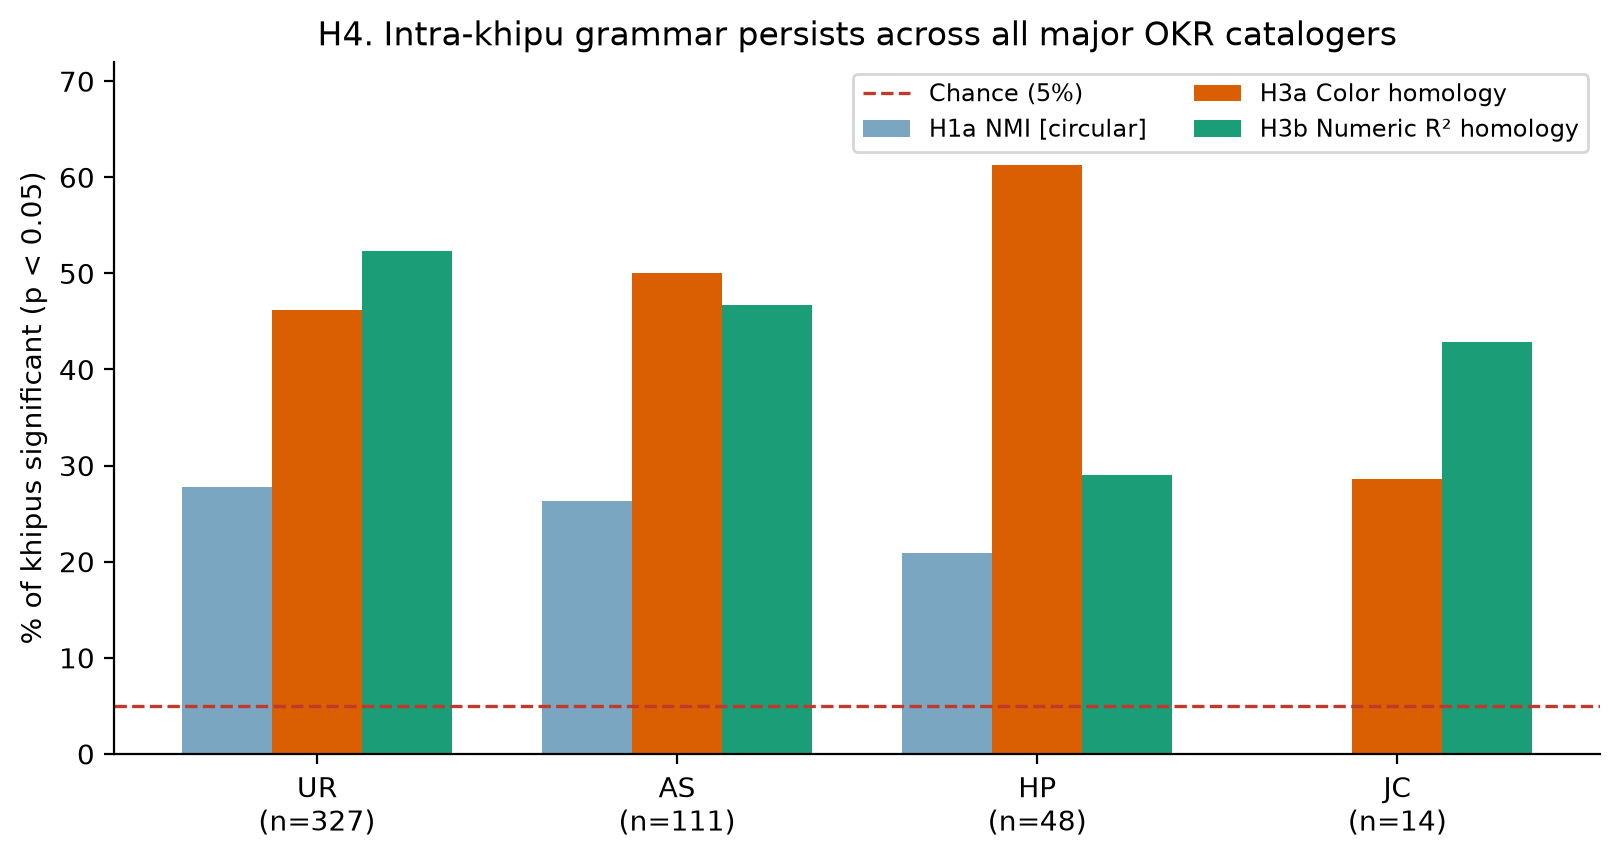
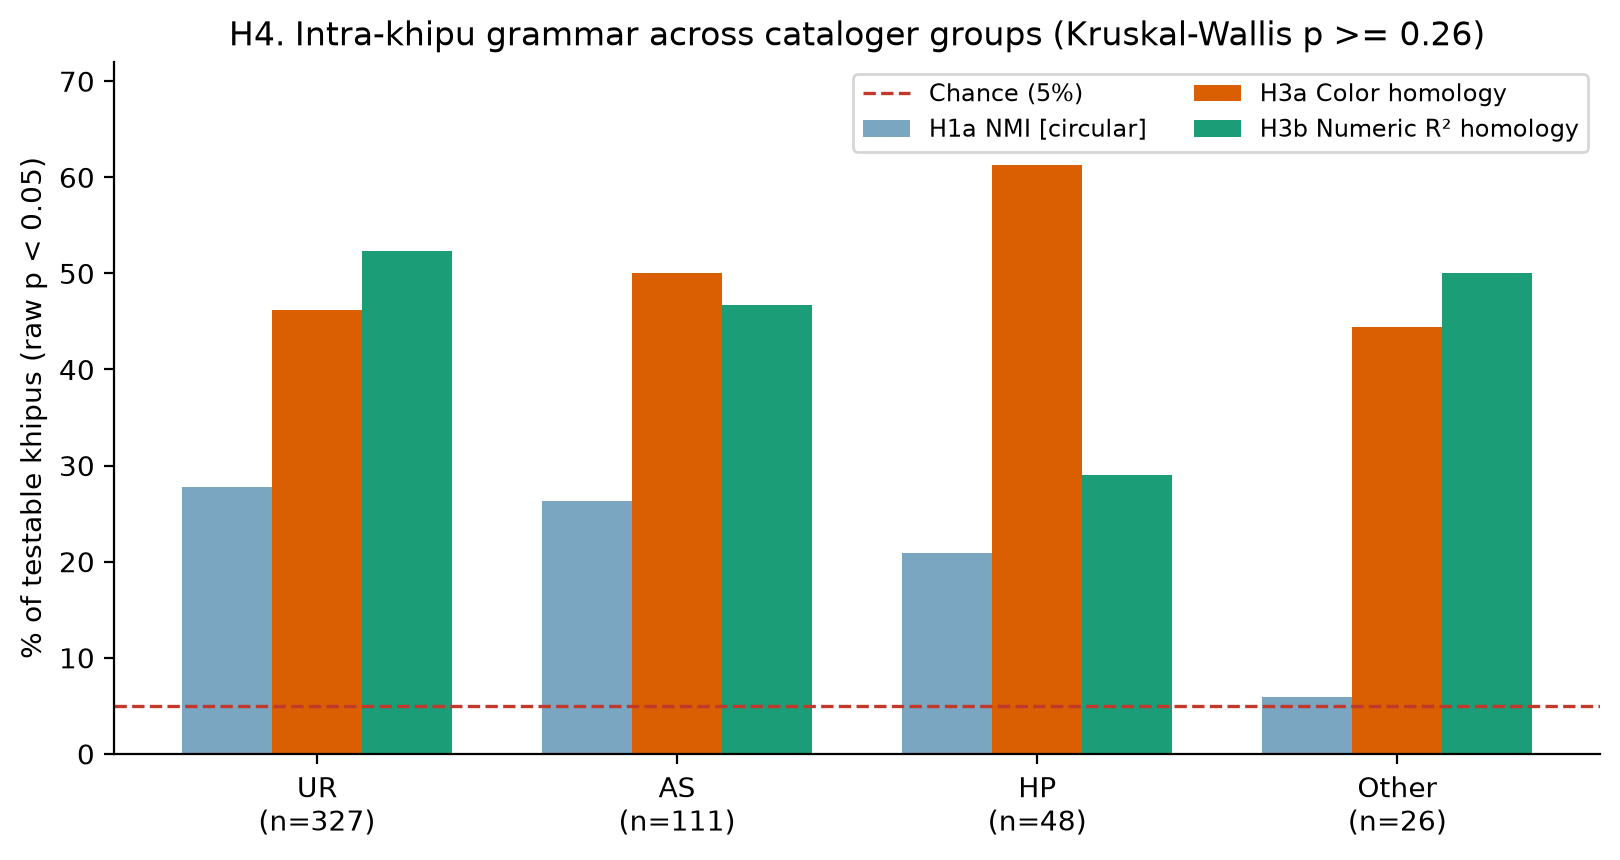
Sync fig3_cataloger_invariance with Table 3 (UR/AS/HP/Other, Kruskal-Wallis p>=0.26)

diff --git a/src/make_figures.py b/src/make_figures.py
@@ -133,9 +133,9 @@ def fig2_h3_cooccurrence():
 
 def fig3_cataloger_invariance():
     dd = pd.read_csv(RES / "deep_dive_fdr_1000.csv")
-    cats = ["UR", "AS", "HP", "JC"]
-    sub = dd[dd["cataloger"].isin(cats)]
-    grp = sub.groupby("cataloger").agg(
+    dd["cat_grp"] = np.where(dd["cataloger"].isin(["UR", "AS", "HP"]), dd["cataloger"], "Other")
+    cats = ["UR", "AS", "HP", "Other"]
+    grp = dd.groupby("cat_grp").agg(
         n=("KHIPU_ID", "count"),
         h3a=("h3_col_p", lambda x: 100 * (x.dropna() < 0.05).mean()),
         h3b=("h3_val_p", lambda x: 100 * (x.dropna() < 0.05).mean()),
@@ -151,8 +151,8 @@ def fig3_cataloger_invariance():
     ax.axhline(5.0, color="#c0392b", ls="--", lw=1.2, label="Chance (5%)")
     ax.set_xticks(x)
     ax.set_xticklabels([f"{c}\n(n={int(grp.loc[c, 'n'])})" for c in cats])
-    ax.set_ylabel("% of khipus significant (p < 0.05)")
-    ax.set_title("H4. Intra-khipu grammar persists across all major OKR catalogers")
+    ax.set_ylabel("% of testable khipus (raw p < 0.05)")
+    ax.set_title("H4. Intra-khipu grammar across cataloger groups (Kruskal-Wallis p >= 0.26)")
     ax.set_ylim(0, 72)
     ax.legend(fontsize=8.5, ncol=2)
     plt.tight_layout()
